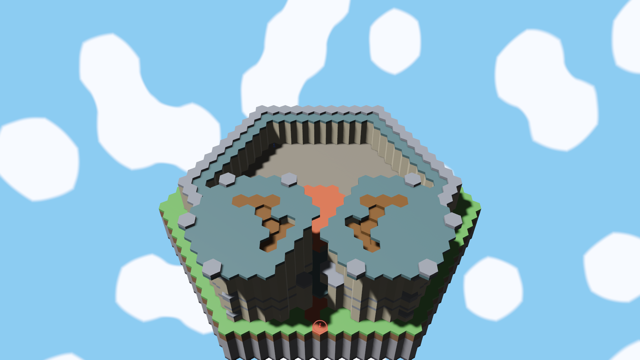
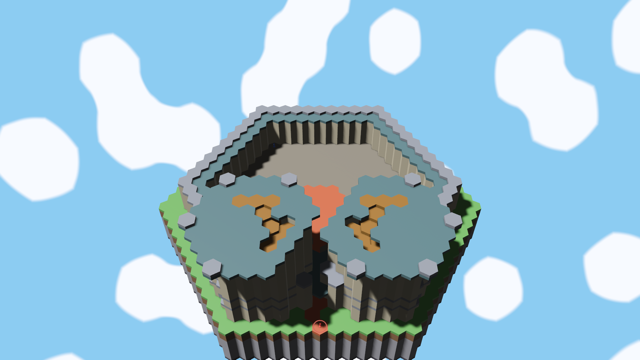
feat(map): refine outpost tower visibility

diff --git a/crates/hex_map/src/procedural_v3/outpost.rs b/crates/hex_map/src/procedural_v3/outpost.rs
@@ -871,9 +871,15 @@ fn author_tower_shell_range(
     for level in bottom..=top {
         let rise = level.saturating_sub(GROUND_LEVEL);
         let worked_stone_band = matches!(rise, FRONT_WALK_RISE | WALL_WALK_RISE | LOOKOUT_RISE);
-        let worked_stone_sill = coord == tower_window_coord(tower) && matches!(rise, 3 | 12 | 21);
+        let worked_stone_window_frame = tower_window_coords(tower).contains(&coord)
+            && (0..STAIR_LOOPS_PER_TOWER).any(|cycle| {
+                let base = i32::try_from(cycle)
+                    .unwrap_or(i32::MAX)
+                    .saturating_mul(STAIR_LOOP_RISE);
+                matches!(rise.saturating_sub(base), 2 | 6)
+            });
         let worked_stone_lintel = coord == ground_door(tower) && rise == 3;
-        let material = if worked_stone_band || worked_stone_sill || worked_stone_lintel {
+        let material = if worked_stone_band || worked_stone_window_frame || worked_stone_lintel {
             SolidMaterialRole::WorkedStone
         } else {
             SolidMaterialRole::Limestone
@@ -892,17 +898,18 @@ fn carve_tower_windows(
     author: &mut VoxelAuthor,
     tower: TowerSpec,
 ) -> Result<(), Vec<WorldValidationIssue>> {
-    let coord = tower_window_coord(tower);
-    for cycle in 0..STAIR_LOOPS_PER_TOWER {
-        let cycle_rise = i32::try_from(cycle)
-            .unwrap_or(i32::MAX)
-            .saturating_mul(STAIR_LOOP_RISE);
-        for rise in [cycle_rise + 4, cycle_rise + 5] {
-            author.remove_masonry_voxel(
-                TilePos::new(coord, GROUND_LEVEL + rise),
-                StructureKind::Tower,
-                tower.index,
-            )?;
+    for coord in tower_window_coords(tower) {
+        for cycle in 0..STAIR_LOOPS_PER_TOWER {
+            let cycle_rise = i32::try_from(cycle)
+                .unwrap_or(i32::MAX)
+                .saturating_mul(STAIR_LOOP_RISE);
+            for opening_rise in cycle_rise + 3..=cycle_rise + 5 {
+                author.remove_masonry_voxel(
+                    TilePos::new(coord, GROUND_LEVEL + opening_rise),
+                    StructureKind::Tower,
+                    tower.index,
+                )?;
+            }
         }
     }
     Ok(())
@@ -1503,11 +1510,9 @@ fn outer_door(tower: TowerSpec) -> HexCoord {
     }
 }
 
-fn tower_window_coord(tower: TowerSpec) -> HexCoord {
-    match tower.index {
-        0 => HexCoord::from_axial(11, -11),
-        _ => HexCoord::from_axial(11, 0),
-    }
+fn tower_window_coords(tower: TowerSpec) -> [HexCoord; 2] {
+    [HexCoord::from_axial(3, -3), HexCoord::from_axial(3, -1)]
+        .map(|local| transform_local(local, tower))
 }
 
 fn front_walk_cells() -> [(HexCoord, StructureKind, u8, bool); 8] {
@@ -1670,7 +1675,22 @@ mod tests {
         assert_eq!(selected.validated.plan.validate(), Vec::new());
 
         let plan = &selected.validated.plan;
+        let ordinary = OrdinaryGraph::from_volume(&plan.volume, None);
         for tower in tower_specs() {
+            let windows = tower_window_coords(tower);
+            let [first_window, second_window] = windows;
+            assert_ne!(first_window, second_window);
+            let expected_windows = match tower.index {
+                0 => [HexCoord::from_axial(8, -11), HexCoord::from_axial(10, -11)],
+                _ => [HexCoord::from_axial(8, 3), HexCoord::from_axial(10, 1)],
+            };
+            assert_eq!(windows, expected_windows);
+            for window in windows {
+                assert_eq!(window.distance(tower.center), TOWER_WALL_RADIUS);
+                assert_ne!(window, ground_door(tower));
+                assert_ne!(window, inner_door(tower));
+                assert_ne!(window, outer_door(tower));
+            }
             for level in GROUND_LEVEL + 1..GROUND_LEVEL + LOOKOUT_RISE {
                 assert_eq!(
                     surface_material(plan, TilePos::new(tower.center, level)),
@@ -1694,28 +1714,62 @@ mod tests {
             }
             for cycle in 0..STAIR_LOOPS_PER_TOWER {
                 let landing_rise = i32::try_from(cycle).expect("cycle fits") * STAIR_LOOP_RISE + 3;
-                let sill = TilePos::new(tower_window_coord(tower), GROUND_LEVEL + landing_rise);
-                assert_eq!(
-                    plan.volume
-                        .surfaces
-                        .get(&sill)
-                        .map(|metadata| metadata.access),
-                    Some(SurfaceAccess::Ordinary)
-                );
-                assert_eq!(
-                    surface_material(plan, sill),
-                    Some(SolidMaterialRole::WorkedStone),
-                    "tower {} lost its loop-{cycle} worked-stone window sill",
-                    tower.index
-                );
-                for opening_rise in [landing_rise + 1, landing_rise + 2] {
+                let sill_rise = landing_rise - 1;
+                let lintel_rise = landing_rise + 3;
+                for window in windows {
+                    let sill = TilePos::new(window, GROUND_LEVEL + sill_rise);
                     assert_eq!(
-                        surface_material(
-                            plan,
-                            TilePos::new(tower_window_coord(tower), GROUND_LEVEL + opening_rise,),
-                        ),
-                        None,
-                        "tower {} sealed its loop-{cycle} outward window",
+                        plan.volume
+                            .surfaces
+                            .get(&sill)
+                            .map(|metadata| metadata.access),
+                        Some(SurfaceAccess::Ordinary)
+                    );
+                    assert_eq!(
+                        surface_material(plan, sill),
+                        Some(SolidMaterialRole::WorkedStone),
+                        "tower {} lost a loop-{cycle} worked-stone window sill",
+                        tower.index
+                    );
+                    for opening_rise in landing_rise..=landing_rise + 2 {
+                        assert_eq!(
+                            surface_material(
+                                plan,
+                                TilePos::new(window, GROUND_LEVEL + opening_rise),
+                            ),
+                            None,
+                            "tower {} sealed a loop-{cycle} stair window",
+                            tower.index
+                        );
+                    }
+                    assert_eq!(
+                        surface_material(plan, TilePos::new(window, GROUND_LEVEL + lintel_rise),),
+                        Some(SolidMaterialRole::WorkedStone),
+                        "tower {} lost a loop-{cycle} worked-stone window lintel",
+                        tower.index
+                    );
+                }
+                for (window, landing_local) in windows
+                    .into_iter()
+                    .zip([HexCoord::from_axial(2, -2), HexCoord::from_axial(2, 0)])
+                {
+                    let sill = TilePos::new(window, GROUND_LEVEL + sill_rise);
+                    let landing = TilePos::new(
+                        transform_local(landing_local, tower),
+                        GROUND_LEVEL + landing_rise,
+                    );
+                    assert!(
+                        ordinary.admits(sill, landing),
+                        "tower {} loop-{cycle} slit sill {sill:?} does not meet its outward landing {landing:?}",
+                        tower.index
+                    );
+                }
+                let pier = transform_local(HexCoord::from_axial(3, -2), tower);
+                for opening_rise in landing_rise..=landing_rise + 2 {
+                    assert_eq!(
+                        surface_material(plan, TilePos::new(pier, GROUND_LEVEL + opening_rise),),
+                        Some(SolidMaterialRole::Limestone),
+                        "tower {} lost the masonry pier between its loop-{cycle} slits",
                         tower.index
                     );
                 }
@@ -1840,7 +1894,7 @@ mod tests {
                 "tower {} exposed a non-masonry stair support",
                 tower.index
             );
-            let shell_coord = shift(tower.center, HexCoord::from_axial(0, 3));
+            let shell_coord = transform_local(HexCoord::from_axial(-3, 0), tower);
             assert_eq!(
                 surface_material(plan, TilePos::new(shell_coord, GROUND_LEVEL + 2)),
                 Some(SolidMaterialRole::Limestone)
@@ -1966,11 +2020,15 @@ mod tests {
             assert!(tower_reach.contains_key(&inner_step));
             assert!(!ordinary.neighbors(inner_step).is_empty());
             for cycle in 0..STAIR_LOOPS_PER_TOWER {
-                let sill = TilePos::new(
-                    tower_window_coord(tower),
-                    GROUND_LEVEL + i32::try_from(cycle).expect("cycle fits") * STAIR_LOOP_RISE + 3,
-                );
-                assert!(tower_reach.contains_key(&sill));
+                let sill_level =
+                    GROUND_LEVEL + i32::try_from(cycle).expect("cycle fits") * STAIR_LOOP_RISE + 2;
+                for window in tower_window_coords(tower) {
+                    let sill = TilePos::new(window, sill_level);
+                    assert!(
+                        tower_reach.contains_key(&sill),
+                        "tower {tower_index} loop-{cycle} window sill {sill:?} is isolated"
+                    );
+                }
             }
             assert!(template
                 .lookouts

diff --git a/crates/hex_map/tests/contracts/procedural_publication.rs b/crates/hex_map/tests/contracts/procedural_publication.rs
@@ -544,11 +544,11 @@ fn v3_outpost_publishes_vertical_fortification_and_reenters_deterministically() 
     );
     assert_eq!(
         first_report.semantic_plan_fingerprint,
-        Some(6_532_253_017_736_694_663),
+        Some(9_058_227_291_961_329_292),
         "update only with an explicit shipped Outpost semantic-plan decision"
     );
     assert_eq!(
-        first_report.map_fingerprint, 10_316_302_697_158_683_619,
+        first_report.map_fingerprint, 14_531_079_195_753_434_664,
         "update only with an explicit shipped Outpost materialized-map decision"
     );
     let Some(ProceduralRecipeMetrics::Outpost(OutpostReportMetrics {

diff --git a/crates/hex_assets/src/substances.rs b/crates/hex_assets/src/substances.rs
@@ -682,7 +682,7 @@ mod tests {
             ("metal", "structure/metal", (0.30, 0.34, 0.40)),
             ("slate", "structure/slate", (0.25, 0.37, 0.39)),
             ("terracotta", "structure/terracotta", (0.68, 0.31, 0.18)),
-            ("timber", "structure/timber", (0.38, 0.24, 0.07)),
+            ("timber", "structure/timber", (0.50, 0.34, 0.10)),
             ("worked_stone", "structure/worked-stone", (0.46, 0.48, 0.52)),
             ("snow", "terrain/snow", (0.82, 0.88, 0.92)),
             ("ice", "terrain/ice", (0.42, 0.72, 0.88)),

diff --git a/crates/hex_game/src/walk.rs b/crates/hex_game/src/walk.rs
@@ -1901,9 +1901,9 @@ mod tests {
                     }),
                 ),
                 (
-                    "north tower turn +3",
+                    "north tower landing wing +3",
                     CameraRouteDestination::Exact(CameraRouteTile {
-                        q: 9,
+                        q: 8,
                         r: -10,
                         level: 18,
                     }),

diff --git a/crates/hex_assets/src/object_catalog.rs b/crates/hex_assets/src/object_catalog.rs
@@ -1742,7 +1742,7 @@ mod tests {
             (
                 8_717_522_685_805_731_658,
                 3_796_578_994_341_658_295,
-                1_269_360_685_225_517_705,
+                6_674_064_128_566_841_311,
             )
         );
         let expected_object_fingerprints = BTreeMap::from([

diff --git a/docs/planning/roadmap.md b/docs/planning/roadmap.md
@@ -66,7 +66,7 @@ still belong to the crate they change. `docs` is whoever picks it up.
 | V3 active recipe migration | Hills, Sky Islands, Mountains, Caves, Waterfall, Forest, Fort, Outpost, Volcano, Deep Forest, and Prairie all use the V3 semantic pipeline in shipped scenarios |
 | Forest authored objects | Forest publishes rotated vegetation `ObjectInstance`s and exact blockers; `hex_objects` propagates whole-tree camera roots and retains authored canopy masks as separate art metadata |
 | Structures and Fort | V3 Fort ships worked-stone walls, towers, gates, keep, wall walks, stairs, battlements, and validated defensive circulation |
-| Outpost structure | The additive radius-12 Outpost scenario ships an east-facing gravel-courtyard fort with a terracotta central inlay and circulation paths, limestone walls, worked-stone trim, timber stairs and landings, slate floors/walks/roofs, twin enclosed nine-level-loop climbs, and open level-27 lookouts |
+| Outpost structure | The additive radius-12 Outpost scenario ships an east-facing gravel-courtyard fort with a terracotta central inlay and circulation paths, limestone walls, worked-stone trim and framed defensive slits, timber stairs and landings, slate floors/walks/roofs, twin enclosed nine-level-loop climbs, and open level-27 lookouts |
 | Seven-region composition | Ring7 composes all seven V3 recipe variants in one connected radius-33 world with global routes, elevation seams, and hydrology |
 | Expanded biome set | Volcano, Deep Forest, and Prairie add distinct crater/lava, full-woodland, and open-grassland recipes while stable scenario and object identities remain compatible |
 | Nineteen-region composition | Ring19 composes the selectable radius-55 Two Rings map from 19 fixed logical regions, 42 physically redundant seams, one mountain-fed confluence/outlet water graph, and a separate volcano lava outlet |

diff --git a/docs/systems/world-generation-v3.md b/docs/systems/world-generation-v3.md
@@ -365,6 +365,11 @@ Exposed stair treads and enlarged landings are timber over limestone support, wh
 green-blue slate marks the front canopy, exposed floors and walks, connectors, and
 lookout decks. Walls, stairs, ceilings/roofing, floors, and ground circulation
 therefore remain distinct semantic materials even in a tightly framed view.
+The outward-facing `+3` landing in each loop also meets a pair of defensive slit
+windows. Their worked-stone sills and lintels repeat with the nine-level stair phase,
+while a full limestone pier remains between the openings. The slits admit daylight
+and preserve a usable camera corridor without turning the enclosed towers into
+exposed balconies.
 
 The towers continue through three total nine-level loops to open spotting decks at
 relative level `+27`. Each deck is slightly broader than its tower shell and retains
@@ -374,7 +379,9 @@ validation proves exterior-to-courtyard access, both independent climbs, every w
 connection, and both lookout decks. It also rejects a missing tread, an accidental
 wall shortcut, insufficient gate or stair-exit headroom, mismatched per-component
 material membership, and any Outpost setting outside its radius-12 temperate
-contract. Stable `outpost_rooftop` and `outpost_south_rooftop` anchors identify both
+contract. Exact geometry regressions separately pin every slit opening, sill, lintel,
+central pier, and sill-to-stair connection. Stable `outpost_rooftop` and
+`outpost_south_rooftop` anchors identify both
 review decks without reconstructing private structure geometry. Outpost remains
 static generated geometry; it adds no door object, climbing rule, gameplay blocker,
 or construction mechanic.

diff --git a/docs/planning/status.md b/docs/planning/status.md
@@ -93,9 +93,11 @@ three loops to open level-27 lookout decks. Limestone walls and worked-stone tri
 frame a gravel courtyard whose radius-2 terracotta central inlay and circulation
 paths link the gate and both tower entries. Timber stair treads and landings contrast
 with slate floors, walks, and roofing so load-bearing walls, stairs, ceilings, and
-floors remain visually distinct. Exact graph and material validation covers gate
-access, both climbs, every walk connection, stair headroom, the final open
-stairwells, and exact component membership.
+floors remain visually distinct. Paired worked-stone-framed defensive slits meet the
+outward-facing `+3` landing in each loop, admitting light while retaining a limestone
+pier and the enclosed tower silhouette. Exact graph and material validation covers
+gate access, both climbs, every walk connection, stair headroom, the final open
+stairwells, slit framing, and exact component membership.
 
 Movement is level-based over stacked surfaces, with body size decided by headroom and
 a breadth-first pathfinder that cannot collapse a stack. A movement preview draws the

diff --git a/docs/development/config.md b/docs/development/config.md
@@ -393,7 +393,9 @@ material grammar is content-authored through stable substances: limestone for wa
 worked stone for trim, timber for exposed stair treads and landings, and slate for
 exposed floors, walks, and roofing. Gravel covers the surrounding courtyard; a
 radius-2 terracotta central inlay and terracotta circulation paths link the gate and
-both tower entries. These roles are not renderer tints and remain part of
+both tower entries. Paired defensive slits beside each loop's outward-facing `+3`
+landing use worked-stone sills and lintels around a retained limestone pier. These
+roles are not renderer tints and remain part of
 deterministic map materialization and fingerprinting.
 
 **Compare gameplay sight ranges.** `perception.ron` contains three fixed review
